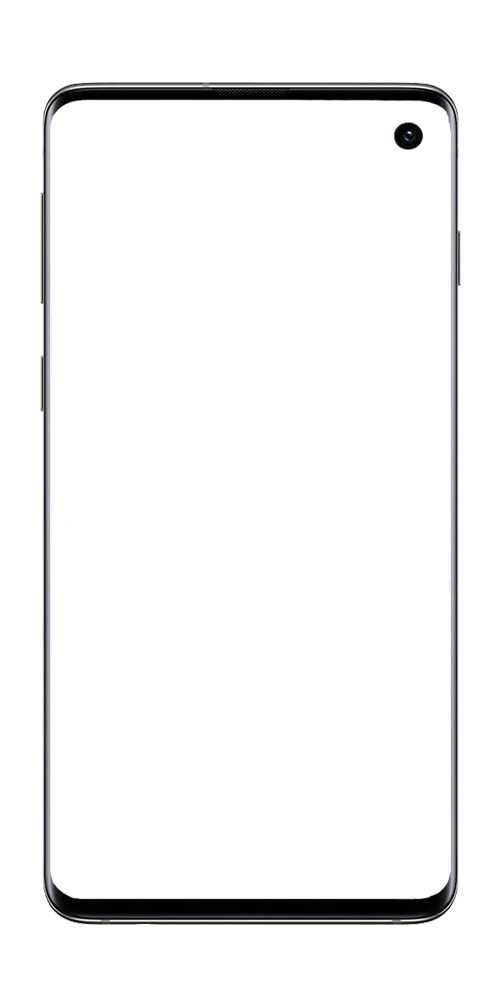
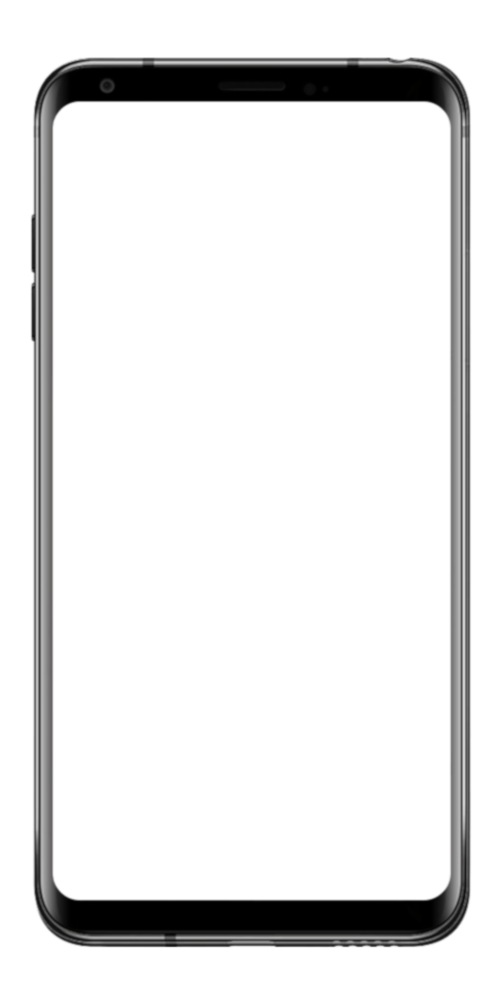
Notification bar

Changed region(s): [[0.06, 0.031, 0.96, 0.961]]

diff --git a/src/Phone.js b/src/Phone.js
@@ -1,10 +1,16 @@
 import React from "react";
 import "./Phone.css";
+import "./i18n";
 import { Route } from "react-router-dom";
 import { HomeApp } from "./apps/home/components/Home";
 import { ContactsApp } from "./apps/contacts/components/Contacts";
+import { NotificationBar } from "./os/components/NotificationBar";
+import { useSettings } from "./apps/settings/hooks/useSettings";
+import MessageIcon from "@material-ui/icons/Email";
+import { NotificationIcon } from "./os/components/NotificationIcon";
 
 function Phone() {
+  const [settings] = useSettings();
   return (
     <div className="PhoneWrapper">
       <div style={{ zoom: "80%" }}>
@@ -12,10 +18,17 @@ function Phone() {
           <div
             className="PhoneFrame"
             style={{
-              backgroundImage: `${process.env.PUBLIC_URL}url(/media/frames/default.png)`,
+              backgroundImage: `${process.env.PUBLIC_URL}url(/media/frames/${settings.frame})`,
             }}
           ></div>
-          <div className="PhoneScreen" id="phone">
+          <div
+            id="phone"
+            className="PhoneScreen"
+            style={{
+              backgroundImage: `${process.env.PUBLIC_URL}url(/media/backgrounds/${settings.wallpaper})`,
+            }}
+          >
+            <NotificationBar notifications={[<NotificationIcon Icon={MessageIcon} />]} />
             <div className="PhoneAppContainer">
               <Route exact path="/" component={HomeApp} />
               <Route exact path="/contacts" component={ContactsApp} />

diff --git a/src/os/components/NotificationBar.js b/src/os/components/NotificationBar.js
@@ -1,0 +1,53 @@
+import React from "react";
+import { makeStyles, Typography, Grid } from "@material-ui/core";
+import { grey } from "@material-ui/core/colors";
+import { fade } from "@material-ui/core/styles/colorManipulator";
+import SignalIcon from "@material-ui/icons/SignalCellular3Bar";
+
+const useStyles = makeStyles(() => ({
+  root: {
+    backgroundColor: fade(grey[800], 0.7),
+    height: "25px",
+    width: "100%",
+    color: "white",
+  },
+  item: {
+    margin: "0 6px",
+  },
+  text: {
+    position: "relative",
+    bottom: "2px",
+  },
+}));
+
+export const NotificationBar = ({ notifications = [] }) => {
+  const classes = useStyles();
+  return (
+    <Grid
+      className={classes.root}
+      container
+      justify="space-between"
+      wrap="nowrap"
+    >
+      <Grid container item wrap="nowrap">
+        {notifications.map((n) => (
+          <Grid item className={classes.item}>
+            {n}
+          </Grid>
+        ))}
+      </Grid>
+      <Grid container item wrap="nowrap" justify="flex-end">
+        <Grid item>
+          <SignalIcon fontSize="small" />
+        </Grid>
+        <Grid item className={classes.item}>
+          <Typography
+            className={classes.text}
+            variant="button"
+            color="white"
+          >{`AT&T`}</Typography>
+        </Grid>
+      </Grid>
+    </Grid>
+  );
+};

diff --git a/src/apps/home/components/GridMenu.js b/src/apps/home/components/GridMenu.js
@@ -1,16 +1,38 @@
 import React from "react";
 import { AppIcon } from "../../../ui/components/AppIcon";
-import { Grid } from "@material-ui/core";
+import { Grid, makeStyles } from "@material-ui/core";
 import { Link } from "react-router-dom";
 
+const useStyles = makeStyles(theme => ({
+  root: {
+    marginTop: theme.spacing(3)
+  },
+  item: {
+    marginTop: theme.spacing(3),
+    width: '20%'
+  }
+}));
+
 export const GridMenu = ({ apps }) => {
+  const classes = useStyles();
   return (
-    <Grid container>
-      {apps && apps.length && apps.map((app) => (
-        <Grid item xs={3} key={app.name} component={Link} to="/contacts">
-            <AppIcon {...app} />
-        </Grid>
-      ))}
+    <Grid container justify="center">
+      <Grid container item>
+        {apps &&
+          apps.length &&
+          apps.map((app) => (
+            <Grid
+              item
+              className={classes.item}
+              key={app.name}
+              tabindex="-1"
+              component={Link}
+              to="/contacts"
+            >
+              <AppIcon {...app} />
+            </Grid>
+          ))}
+      </Grid>
     </Grid>
   );
 };

diff --git a/src/apps/appmarket/hooks/useApps.js b/src/apps/appmarket/hooks/useApps.js
@@ -2,16 +2,17 @@ import React, { createContext, useEffect } from "react";
 import { useConfig } from "../../../config/hooks/useConfig";
 import ContactsIcon from "@material-ui/icons/Contacts";
 import { blue } from "@material-ui/core/colors";
+import { useTranslation } from "react-i18next";
 
 const AppsContext = createContext(null);
 
 export const useApps = () => {
   const [apps, setApps] = useConfig(AppsContext);
-
+  const { t } = useTranslation();
   useEffect(() => {
     setApps("preinstalled", [
       {
-        name: "Contacts",
+        name: t('APPS_CONTACTS'),
         icon: <ContactsIcon />,
         backgroundColor: blue[500],
         color: blue[50]
@@ -28,6 +29,18 @@ export const useApps = () => {
       {
         name: "Contacts4",
       },
+      {
+        name: "Contacts4",
+      },
+      {
+        name: "Contacts4",
+      },
+      {
+        name: "Contacts4",
+      },
+      {
+        name: "Contacts4",
+      }
     ]);
     // eslint-disable-next-line
   }, []);

diff --git a/src/apps/contacts/components/Contacts.js b/src/apps/contacts/components/Contacts.js
@@ -4,6 +4,7 @@ import { makeStyles } from "@material-ui/core";
 import lightBlue from "@material-ui/core/colors/lightBlue";
 import { AppTitle } from "../../../ui/components/AppTitle";
 import { AppContent } from "../../../ui/components/AppContent";
+import { useTranslation } from "react-i18next";
 
 const useStyles = makeStyles(() => ({
   root: {
@@ -16,12 +17,11 @@ const useStyles = makeStyles(() => ({
 
 export const ContactsApp = () => {
   const classes = useStyles();
+  const { t } = useTranslation();
   return (
     <AppWrapper className={classes.root}>
-        <AppTitle className={classes.title}>Contacts</AppTitle>
-        <AppContent>
-            Coming soon...
-        </AppContent>
+      <AppTitle className={classes.title}>{t("APPS_CONTACTS")}</AppTitle>
+      <AppContent>{t("COMING_SOON")}</AppContent>
     </AppWrapper>
   );
 };

diff --git a/src/apps/home/components/Home.js b/src/apps/home/components/Home.js
@@ -1,21 +1,15 @@
 import React from "react";
 import { AppWrapper } from "../../../ui/components";
-import { useSettings } from "../../settings/hooks/useSettings";
 import { GridMenu } from "./GridMenu";
 import { Box } from "@material-ui/core";
 import { useApps } from "../../appmarket/hooks/useApps";
 
 export const HomeApp = () => {
-  const [settings] = useSettings();
   const [apps] = useApps();
   console.log(apps)
   return (
-    <AppWrapper
-      style={{
-        backgroundImage: `${process.env.PUBLIC_URL}url(/media/backgrounds/${settings.wallpaper})`,
-      }}
-    >
-      <Box mt={6} px={4}>{apps && <GridMenu apps={apps.preinstalled} />}</Box>
+    <AppWrapper>
+      <Box width="100%" mt={6} px={1}>{apps && <GridMenu apps={apps.preinstalled} />}</Box>
     </AppWrapper>
   );
 };

diff --git a/src/i18n.js b/src/i18n.js
@@ -1,0 +1,22 @@
+import i18n from "i18next";
+import { initReactI18next } from "react-i18next";
+import en from "./locale/en.json";
+
+const resources = {
+  en
+};
+
+i18n
+  .use(initReactI18next) // passes i18n down to react-i18next
+  .init({
+    resources,
+    lng: "en",
+
+    keySeparator: false, // we do not use keys in form messages.welcome
+
+    interpolation: {
+      escapeValue: false, // react already safes from xss
+    },
+  });
+
+export default i18n;

diff --git a/src/ui/components/AppIcon.js b/src/ui/components/AppIcon.js
@@ -10,12 +10,13 @@ const useStyles = makeStyles((theme) => ({
     "& > *": {
       margin: theme.spacing(1),
     },
+    padding: 0
   },
   avatar: {
     backgroundColor: ({ backgroundColor }) => backgroundColor,
     color: ({ color }) => color,
-    width: theme.spacing(8),
-    height: theme.spacing(8),
+    width: theme.spacing(7),
+    height: theme.spacing(7),
     fontSize: theme.typography.h4.fontSize,
   }
 }));

diff --git a/src/Phone.css b/src/Phone.css
@@ -24,11 +24,13 @@
   overflow: hidden;
   position: absolute;
   background-color: black;
+  border: 8px solid black;
   bottom: 100px;
   left: 50px;
   right: 50px;
   top: 100px;
   display: flex;
+  flex-direction: column;
 }
 
 .PhoneAppContainer {

diff --git a/src/os/components/NotificationIcon.js b/src/os/components/NotificationIcon.js
@@ -1,0 +1,5 @@
+import React from "react";
+
+export const NotificationIcon = ({ Icon }) => {
+  return <Icon fontSize="small" />;
+};
